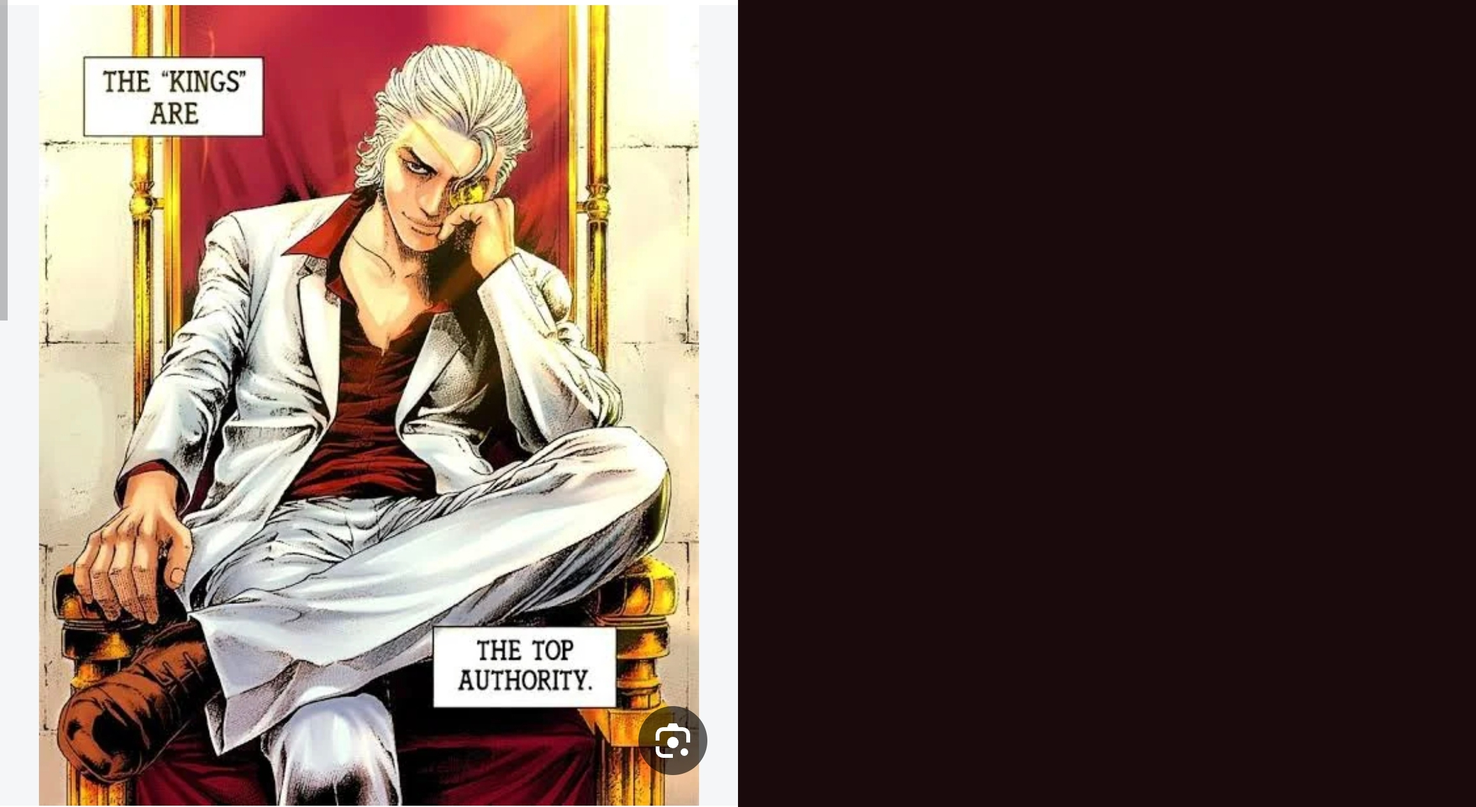
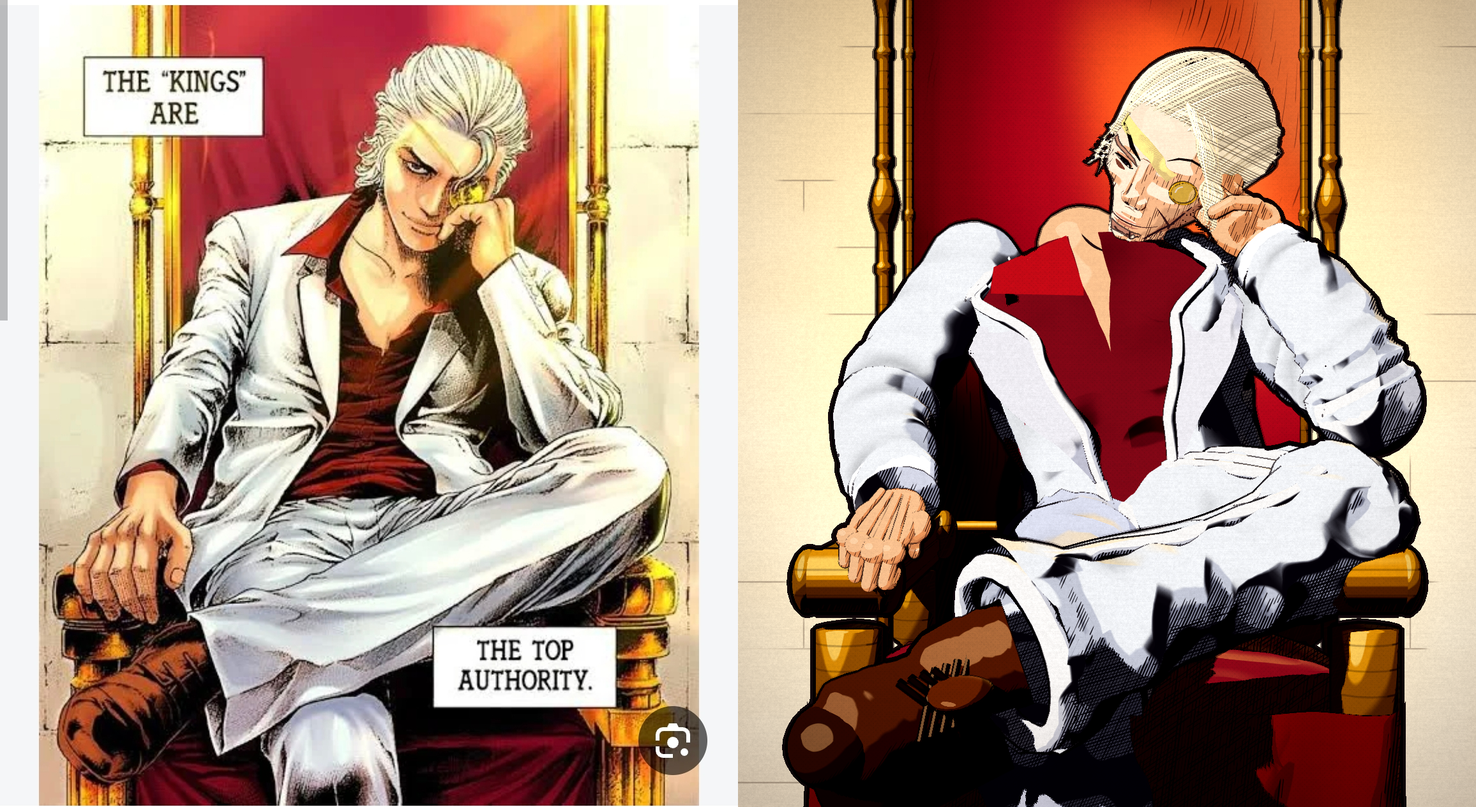
baku3d: round 6 style (pale skin, comb-line hair, suit cracks)
Claude-Session: https://claude.ai/code/session_01JH6q5z1jEaKTaWuFe2UCrC

diff --git a/baku3d/src/headB_hair.js b/baku3d/src/headB_hair.js
@@ -88,7 +88,7 @@ export function buildHair(THREE, style, field, skullGeo) {
     geo.setAttribute('position', new THREE.BufferAttribute(off, 3));
     geo.setIndex(I);
     geo.computeVertexNormals();
-    const m = new THREE.Mesh(geo, style.toon(0xece8dc, { role: 'hair', side: THREE.DoubleSide, hatch: 0.2, outline: 0 }));
+    const m = new THREE.Mesh(geo, style.toon(0xc9c3b2, { role: 'hair', side: THREE.DoubleSide, hatch: 0.2, outline: 0 }));
     m.name = 'scalp'; group.add(m);
   }
 
@@ -129,12 +129,12 @@ export function buildHair(THREE, style, field, skullGeo) {
         const a = (1 - t) * (1 - t), b = 2 * t * (1 - t) * kk, c = t * t;
         const dd = V(d0.x * a + via.x * b + d1.x * c, d0.y * a + via.y * b + d1.y * c, d0.z * a + via.z * b + d1.z * c).normalize();
         const q = surf(dd.x, dd.y, dd.z);
-        const bump = (0.016 + 0.018 * (1 - 0.3 * side)) * Math.max(0, Math.sin(Math.PI * Math.min(1, t * 1.15))) ** 0.7 * sm(0.0, 0.5, t);
+        const bump = (0.022 + 0.020 * (1 - 0.3 * side)) * Math.max(0, Math.sin(Math.PI * Math.min(1, t * 1.15))) ** 0.7 * sm(0.0, 0.5, t);
         const e = eps + bump + lift * Math.max(0, Math.sin(Math.PI * t / tEnd)) ** 1.5;
         const wob = Math.sin(t * fr * 3 + ph1) * amp;
         pts.push(V(q[0] + dd.x * e + wob, q[1] + dd.y * e, q[2] + dd.z * e));
       }
-      const w0 = (0.0085 + 0.0030 * ((az * 3 + l) % 3) / 2) * (1 - 0.2 * side);
+      const w0 = (0.0058 + 0.0028 * ((az * 3 + l) % 3) / 2) * (1 - 0.2 * side);
       const b = (rnd() < 0.015) ? ink : pick();
       strand(b, pts, taper(w0, 0.05, 0.30, 0.0), 0.0015);
       if (false) {

diff --git a/baku3d/src/style_roles.js b/baku3d/src/style_roles.js
@@ -20,7 +20,7 @@ export const ROLES = {
           outline: 0.7, ink: [0.20, 0.10, 0.08], litT: 0.10, midT: -0.12, hatchT: 0.06, faceShade: 0.3, solid: 0.15 },
   // white/silver hair with ink strands
   hair: { ...D, lit: [1.15, 1.11, 1.02], mid: [1.08, 1.03, 0.94], shade: [0.95, 0.90, 0.83], deep: [0.78, 0.73, 0.66],
-          strand: 0.22, straight: true, hatch: 0.35, pitch: 3.6, angle: -0.3, rim: 0.5, outline: 0.7, ink: [0.20, 0.17, 0.15],
+          strand: 0.18, straight: true, hatch: 0.3, pitch: 4.0, angle: -0.45, rim: 0.5, outline: 0.7, ink: [0.30, 0.26, 0.22],
           spec: 0.2, shin: 70, midT: -0.1, rimCol: [1.0, 0.85, 0.55] },
   // gold: yellow -> brown gradient ramp, glossy white-yellow highlights
   gold: { ...D, metal: true, lit: [1, 1, 1], mid: [1, 1, 1], shade: [0.7, 0.45, 0.3], deep: [0.4, 0.2, 0.1],

diff --git a/baku3d/src/style.js b/baku3d/src/style.js
@@ -191,7 +191,7 @@ void main(){
   if (uBump > 0.4 && uSolid > 0.0) {
     float fr = foldN(vPw * 4.2);
     float fw = fwidth(fr) * 1.5 + 0.006;
-    float crease = smoothstep(0.83 - fw, 0.83 + fw, fr) * smoothstep(0.34, 0.05, s);
+    float crease = smoothstep(0.80 - fw, 0.80 + fw, fr) * smoothstep(0.38, 0.08, s);
     ink = max(ink, crease * 0.95);
   }
   col = mix(col, uInk, ink);
